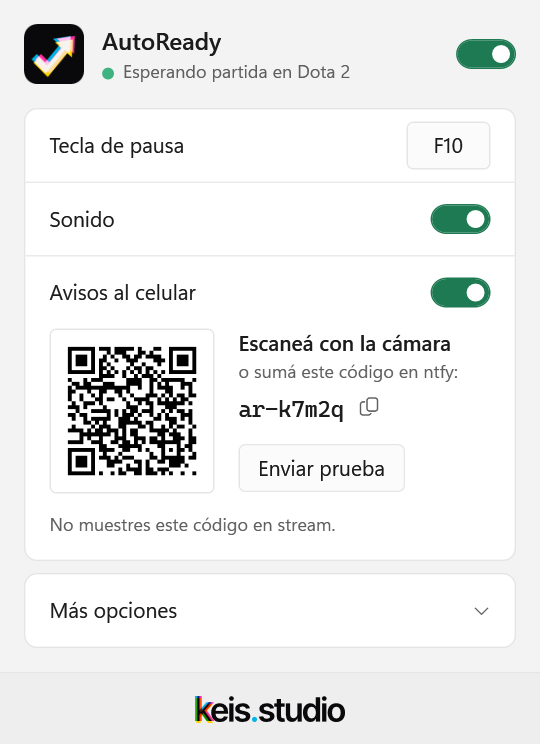
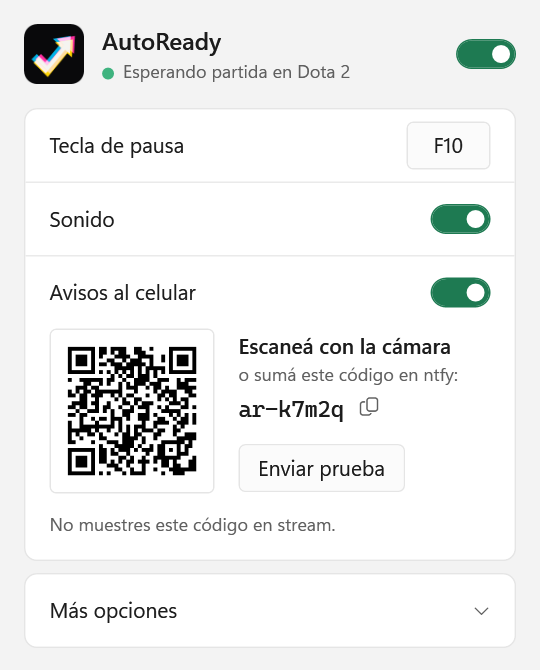
Crop the keis.studio band from the site's panel screenshots
The page footer already shows the wordmark, so the screenshot now ends
at More options.

diff --git a/docs/index.html b/docs/index.html
@@ -136,7 +136,7 @@
     </div>
     <picture class="shot-wrap">
       <source id="shot-light" media="(prefers-color-scheme: light)" srcset="assets/panel-en-light.png">
-      <img class="shot" id="shot" src="assets/panel-en.png" width="540" height="685" alt="AutoReady panel: waiting for a match in Dota 2, with pause hotkey, sound and phone notification settings">
+      <img class="shot" id="shot" src="assets/panel-en.png" width="540" height="670" alt="AutoReady panel: waiting for a match in Dota 2, with pause hotkey, sound and phone notification settings">
     </picture>
   </div>
 </main>
